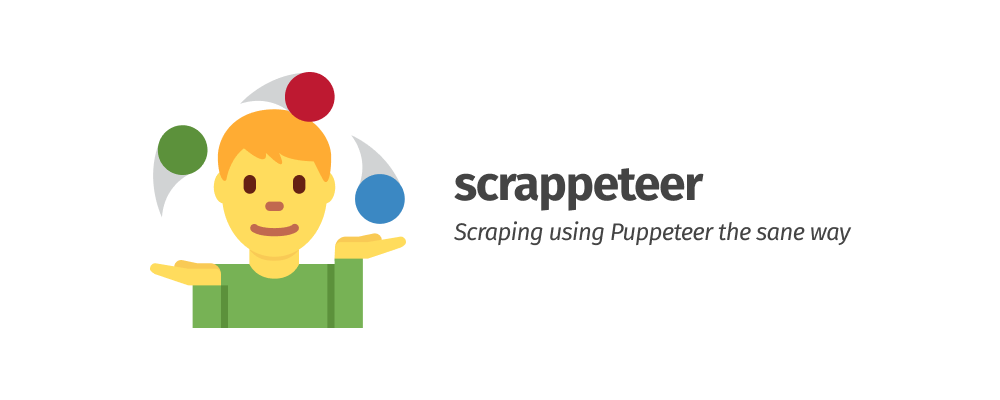
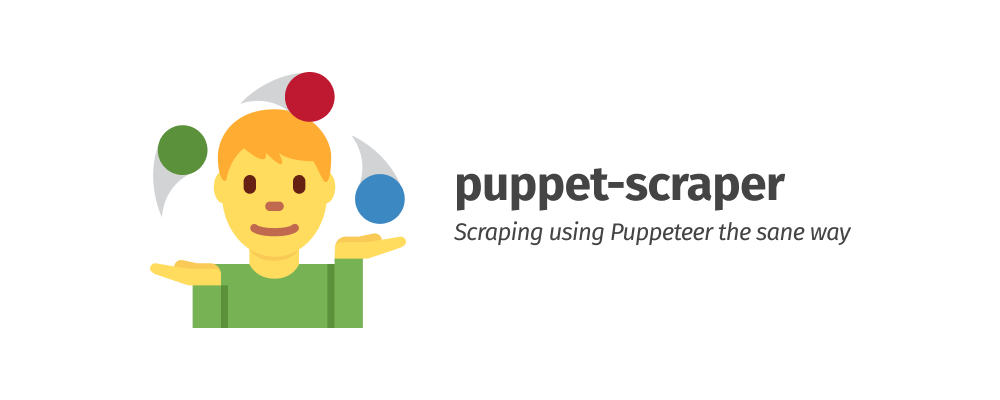
Change puppeteer to puppet-scraper (#10)

Changed region(s): [[0.434, 0.42, 0.806, 0.54]]

diff --git a/src/types.ts b/src/types.ts
@@ -33,9 +33,9 @@ export type ScrapeFromUrls = <T>(
 
 // #endregion
 
-// #region Scrappeteer
+// #region PuppetScraper
 
-export interface ScInstance {
+export interface PSInstance {
   scrapeFromUrl: ScrapeFromUrl;
   scrapeFromUrls: ScrapeFromUrls;
   close: () => Promise<void>;
@@ -45,24 +45,24 @@ export interface ScInstance {
   };
 }
 
-export type ScBootstrapProps = {
+export type PSBootstrapProps = {
   browser?: Browser;
   concurrentPages?: number;
   maxEvaluationRetries?: number;
 };
 
-export type ScBootstrap = (props?: ScBootstrapProps) => Promise<ScInstance>;
+export type PSBootstrap = (props?: PSBootstrapProps) => Promise<PSInstance>;
 
-export type ScLaunchOptions = ScBootstrapProps & LaunchOptions;
+export type PSLaunchOptions = PSBootstrapProps & LaunchOptions;
 
-export type ScLaunch = (opts?: ScLaunchOptions) => ReturnType<ScBootstrap>;
+export type PSLaunch = (opts?: PSLaunchOptions) => ReturnType<PSBootstrap>;
 
-export type ScConnectOptions = ScBootstrapProps & ConnectOptions;
+export type PSConnectOptions = PSBootstrapProps & ConnectOptions;
 
-export type ScConnect = (opts: ScConnectOptions) => ReturnType<ScBootstrap>;
+export type PSConnect = (opts: PSConnectOptions) => ReturnType<PSBootstrap>;
 
-export type ScUseOptions = ScBootstrapProps & { browser: Browser };
+export type PSUseOptions = PSBootstrapProps & { browser: Browser };
 
-export type ScUse = (opts: ScUseOptions) => ReturnType<ScBootstrap>;
+export type PSUse = (opts: PSUseOptions) => ReturnType<PSBootstrap>;
 
 // #endregion

diff --git a/test/puppet-scraper.test.ts b/test/puppet-scraper.test.ts
@@ -1,4 +1,4 @@
-import { ScInstance, Scrappeteer } from '..';
+import { PSInstance, PuppetScraper } from '..';
 import { sleep } from './utils';
 import { launchOptions, timeout } from './variables';
 
@@ -8,10 +8,10 @@ describe('launching instance', () => {
   it(
     'should launch and close without errors',
     () => {
-      let instance: ScInstance;
+      let instance: PSInstance;
 
       const instantiateAndClose = async () => {
-        instance = await Scrappeteer.launch(launchOptions);
+        instance = await PuppetScraper.launch(launchOptions);
         await instance.close();
       };
 
@@ -22,10 +22,10 @@ describe('launching instance', () => {
 });
 
 describe('scrape hacker news from single url', () => {
-  let instance: ScInstance;
+  let instance: PSInstance;
 
   beforeAll(() => {
-    const creating = Scrappeteer.launch(launchOptions);
+    const creating = PuppetScraper.launch(launchOptions);
     return creating.then((created) => (instance = created));
   }, timeout);
 
@@ -84,10 +84,10 @@ describe('scrape hacker news from single url', () => {
 });
 
 describe('scrape hacker news from multiple urls', () => {
-  let instance: ScInstance;
+  let instance: PSInstance;
 
   beforeAll(async () => {
-    const creating = Scrappeteer.launch(launchOptions);
+    const creating = PuppetScraper.launch(launchOptions);
     return creating.then((created) => (instance = created));
   }, timeout);
 

diff --git a/src/puppet-scraper.ts b/src/puppet-scraper.ts
@@ -7,15 +7,15 @@ import {
   DEFAULT_PAGE_OPTIONS,
 } from './defaults';
 import {
-  ScBootstrap,
-  ScConnect,
-  ScLaunch,
+  PSBootstrap,
+  PSConnect,
+  PSLaunch,
+  PSUse,
   ScrapeFromUrl,
   ScrapeFromUrls,
-  ScUse,
 } from './types';
 
-const bootstrap: ScBootstrap = async ({
+const bootstrap: PSBootstrap = async ({
   browser,
   concurrentPages = DEFAULT_CONCURRENT_PAGES,
   maxEvaluationRetries = DEFAULT_EVALUATION_RETRIES,
@@ -117,7 +117,7 @@ const bootstrap: ScBootstrap = async ({
   };
 };
 
-const connect: ScConnect = async ({
+const connect: PSConnect = async ({
   concurrentPages,
   maxEvaluationRetries,
   ...opts
@@ -126,7 +126,7 @@ const connect: ScConnect = async ({
   return bootstrap({ browser, concurrentPages, maxEvaluationRetries });
 };
 
-const launch: ScLaunch = async ({
+const launch: PSLaunch = async ({
   concurrentPages,
   maxEvaluationRetries,
   ...opts
@@ -135,11 +135,11 @@ const launch: ScLaunch = async ({
   return bootstrap({ browser, concurrentPages, maxEvaluationRetries });
 };
 
-const use: ScUse = (opts) => {
+const use: PSUse = (opts) => {
   if (!opts.browser) {
     throw new Error('browser is not defined');
   }
   return bootstrap(opts);
 };
 
-export const Scrappeteer = { connect, launch, use };
+export const PuppetScraper = { connect, launch, use };

diff --git a/examples/hn-custom-browser.js b/examples/hn-custom-browser.js
@@ -1,13 +1,13 @@
-const { Scrappeteer } = require('..');
+const { PuppetScraper } = require('..');
 
 async function hnCustomBrowser() {
-  const sc = await Scrappeteer.launch({
+  const ps = await PuppetScraper.launch({
     executablePath:
       'C:\\Program Files (x86)\\Microsoft\\Edge Dev\\Application\\msedge.exe',
     headless: false,
   });
 
-  const data = await sc.scrapeFromUrl({
+  const data = await ps.scrapeFromUrl({
     url: 'https://news.ycombinator.com',
     evaluateFn: () => {
       let items = [];
@@ -25,7 +25,7 @@ async function hnCustomBrowser() {
 
   console.log({ data });
 
-  await sc.close();
+  await ps.close();
 }
 
 hnCustomBrowser();

diff --git a/examples/hn-multiple.js b/examples/hn-multiple.js
@@ -1,7 +1,7 @@
-const { Scrappeteer } = require('..');
+const { PuppetScraper } = require('..');
 
 async function hnMultiple() {
-  const sc = await Scrappeteer.launch({
+  const ps = await PuppetScraper.launch({
     concurrentPages: 5,
   });
 
@@ -9,7 +9,7 @@ async function hnMultiple() {
     (_, i) => `https://news.ycombinator.com/news?p=${i + 1}`,
   );
 
-  const data = await sc.scrapeFromUrls({
+  const data = await ps.scrapeFromUrls({
     urls,
     evaluateFn: () => {
       let items = [];
@@ -27,7 +27,7 @@ async function hnMultiple() {
 
   console.log({ data });
 
-  await sc.close();
+  await ps.close();
 }
 
 hnMultiple();

diff --git a/examples/hn.js b/examples/hn.js
@@ -1,9 +1,9 @@
-const { Scrappeteer } = require('..');
+const { PuppetScraper } = require('..');
 
 async function hn() {
-  const sc = await Scrappeteer.launch();
+  const ps = await PuppetScraper.launch();
 
-  const data = await sc.scrapeFromUrl({
+  const data = await ps.scrapeFromUrl({
     url: 'https://news.ycombinator.com',
     evaluateFn: () => {
       let items = [];
@@ -21,7 +21,7 @@ async function hn() {
 
   console.log({ data });
 
-  await sc.close();
+  await ps.close();
 }
 
 hn();

diff --git a/test/variables.ts b/test/variables.ts
@@ -1,6 +1,6 @@
-import { ScLaunchOptions } from '..';
+import { PSLaunchOptions } from '..';
 
-export const launchOptions: ScLaunchOptions = {
+export const launchOptions: PSLaunchOptions = {
   ...(process.env.CI
     ? { executablePath: 'google-chrome-stable', args: ['--no-sandbox'] }
     : {}),

diff --git a/src/index.ts b/src/index.ts
@@ -1,4 +1,4 @@
 export * from './defaults';
 export * from './types';
 
-export { Scrappeteer } from './scrappeteer';
+export { PuppetScraper } from './puppet-scraper';

diff --git a/README.md b/README.md
@@ -2,10 +2,10 @@
 
 <div align="center">
 
-[![scrappeteer](./header.png)](.)
+[![puppet-scraper](./header.png)](.)
 
-![github release](https://badgen.net/github/release/grikomsn/scrappeteer?icon=github)
-![npm version](https://badgen.net/npm/v/scrappeteer?icon=npm)
+![github release](https://badgen.net/github/release/grikomsn/puppet-scraper?icon=github)
+![npm version](https://badgen.net/npm/v/puppet-scraper?icon=npm)
 
 </div>
 
@@ -25,13 +25,13 @@
 
 ---
 
-**Scrappeteer is a opinionated wrapper library for utilizing [Puppeteer](https://github.com/puppeteer/puppeteer) to scrape pages easily, bootstrapped using [Jared Palmer's tsdx](https://github.com/jaredpalmer/tsdx).**
+**PuppetScraper is a opinionated wrapper library for utilizing [Puppeteer](https://github.com/puppeteer/puppeteer) to scrape pages easily, bootstrapped using [Jared Palmer's tsdx](https://github.com/jaredpalmer/tsdx).**
 
 Most people create a new scraping project by `require`-ing Puppeteer and create their own logic to scrape pages, and that logic will get more complicated when trying to use multiple pages.
 
-Scrappeteer allows you to just pass the URLs to scrape, the function to evaluate (the scraping logic), and how many pages (or tabs) to open at a time. Basically, Scrappeteer abstracts the need to create multiple page instances and retrying the evaluation logic.
+PuppetScraper allows you to just pass the URLs to scrape, the function to evaluate (the scraping logic), and how many pages (or tabs) to open at a time. Basically, PuppetScraper abstracts the need to create multiple page instances and retrying the evaluation logic.
 
-**Version 0.1.0 note**: Scrappeteer was initially made as a project template rather than a wrapper library, but the core logic is still the same with various improvements and without extra libraries, so you can include Scrappeteer in your project easily using `npm` or `yarn`.
+**Version 0.1.0 note**: PuppetScraper was initially made as a project template rather than a wrapper library, but the core logic is still the same with various improvements and without extra libraries, so you can include PuppetScraper in your project easily using `npm` or `yarn`.
 
 ## Brief example
 
@@ -40,11 +40,11 @@ Here's a [basic example](./examples/hn.js) on scraping the entries on [first pag
 ```js
 // examples/hn.js
 
-const { Scrappeteer } = require('scrappeteer');
+const { PuppetScraper } = require('puppet-scraper');
 
-const sc = await Scrappeteer.launch();
+const ps = await PuppetScraper.launch();
 
-const data = await sc.scrapeFromUrl({
+const data = await ps.scrapeFromUrl({
   url: 'https://news.ycombinator.com',
   evaluateFn: () => {
     let items = [];
@@ -62,7 +62,7 @@ const data = await sc.scrapeFromUrl({
 
 console.log({ data });
 
-await sc.close();
+await ps.close();
 ```
 
 View more examples on the [`examples` directory](./examples).
@@ -71,12 +71,12 @@ View more examples on the [`examples` directory](./examples).
 
 ### Installing dependency
 
-Install `scrappeteer` via `npm` or `yarn`:
+Install `puppet-scraper` via `npm` or `yarn`:
 
 ```console
-$ npm install scrappeteer
+$ npm install puppet-scraper
       --- or ---
-$ yarn add scrappeteer
+$ yarn add puppet-scraper
 ```
 
 Install peer dependency `puppeteer` or Puppeteer equivalent ([`chrome-aws-lambda`](https://github.com/alixaxel/chrome-aws-lambda), untested):
@@ -89,23 +89,23 @@ $ yarn add puppeteer
 
 ### Instantiation
 
-Create the Scrappeteer instance, either launching a new browser instance, connect or use an existing browser instance:
+Create the PuppetScraper instance, either launching a new browser instance, connect or use an existing browser instance:
 
 ```js
-const { Scrappeteer } = require('scrappeteer');
+const { PuppetScraper } = require('puppet-scraper');
 const Puppeteer = require('puppeteer');
 
 // launches a new browser instance
-const instance = await Scrappeteer.launch();
+const instance = await PuppetScraper.launch();
 
 // connect to an existing browser instance
-const external = await Scrappeteer.connect({
+const external = await PuppetScraper.connect({
   browserWSEndpoint: 'ws://127.0.0.1:9222/devtools/browser/...',
 });
 
 // use an existing browser instance
 const browser = await Puppeteer.launch();
-const existing = await Scrappeteer.use({ browser });
+const existing = await PuppetScraper.use({ browser });
 ```
 
 ### Customize options
@@ -113,9 +113,9 @@ const existing = await Scrappeteer.use({ browser });
 `launch` and `connect` has the same props with `Puppeteer.launch` and `Puppeteer.connect`, but with an extra `concurrentPages` and `maxEvaluationRetries` property:
 
 ```js
-const { Scrappeteer } = require('scrappeteer');
+const { PuppetScraper } = require('puppet-scraper');
 
-const instance = await Scrappeteer.launch({
+const instance = await PuppetScraper.launch({
   concurrentPages: 3,
   maxEvaluationRetries: 10
   headless: false,
@@ -174,7 +174,7 @@ const urls = Array.from({ length: 5 }).map(
   (_, i) => `https://news.ycombinator.com/news?p=${i + 1}`,
 );
 
-const data = await sc.scrapeFromUrls({
+const data = await ps.scrapeFromUrls({
   urls,
   evaluateFn: () => {
     let items = [];
@@ -201,7 +201,7 @@ await instance.close();
 
 ### Access the browser instance
 
-Scrappeteer also exposes the browser instance if you want to do things manually:
+PuppetScraper also exposes the browser instance if you want to do things manually:
 
 ```js
 const browser = instance.___internal.browser;
@@ -216,7 +216,7 @@ Thanks goes to these wonderful people ([emoji key](https://allcontributors.org/d
 <!-- markdownlint-disable -->
 <table>
   <tr>
-    <td align="center"><a href="https://griko.id"><img src="https://avatars1.githubusercontent.com/u/8220954?v=4" width="100px;" alt=""/><br /><sub><b>Griko Nibras</b></sub></a><br /><a href="https://github.com/grikomsn/scrappeteer/commits?author=grikomsn" title="Code">💻</a> <a href="#maintenance-grikomsn" title="Maintenance">🚧</a></td>
+    <td align="center"><a href="https://griko.id"><img src="https://avatars1.githubusercontent.com/u/8220954?v=4" width="100px;" alt=""/><br /><sub><b>Griko Nibras</b></sub></a><br /><a href="https://github.com/grikomsn/puppet-scraper/commits?author=grikomsn" title="Code">💻</a> <a href="#maintenance-grikomsn" title="Maintenance">🚧</a></td>
   </tr>
 </table>
 
